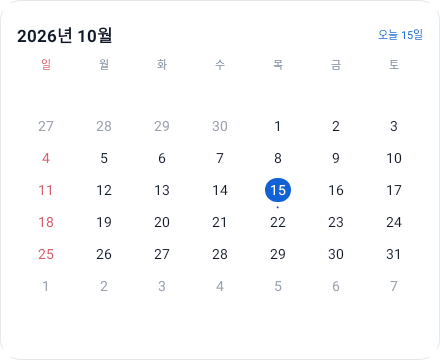
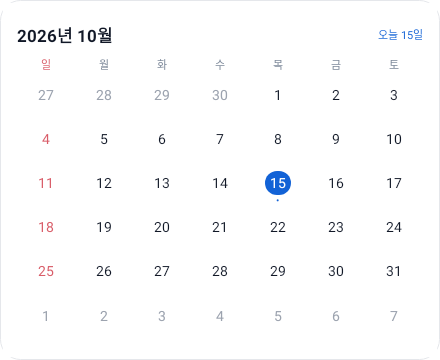
feat: simplify widget task form and support compact sizes

diff --git a/android/app/src/main/kotlin/com/example/ku_task_management/WidgetWorkspaceActivity.kt b/android/app/src/main/kotlin/com/example/ku_task_management/WidgetWorkspaceActivity.kt
@@ -52,6 +52,8 @@ class WidgetWorkspaceActivity : Activity() {
     private var pendingSave: (() -> Unit)? = null
     private var draft: (() -> Bundle)? = null
     private var initialDraft: Bundle? = null
+    private var editorAdvanced: LinearLayout? = null
+    private var editorMore: Button? = null
     private var focusTick: Runnable? = null
     private val handler = Handler(Looper.getMainLooper())
     private val worker = Executors.newSingleThreadExecutor()
@@ -89,6 +91,7 @@ class WidgetWorkspaceActivity : Activity() {
             "add", "edit" -> safely {
                 editor(id, savedInstanceState?.getBundle("draft"))
                 initialDraft = savedInstanceState?.getBundle("initial_draft") ?: initialDraft
+                setEditorAdvanced(savedInstanceState?.getBoolean("editor_advanced") == true)
             }
             else -> safely { list() }
         }
@@ -101,6 +104,7 @@ class WidgetWorkspaceActivity : Activity() {
         outState.putString("task_id", currentTaskId)
         draft?.let { outState.putBundle("draft", it()) }
         initialDraft?.let { outState.putBundle("initial_draft", it) }
+        outState.putBoolean("editor_advanced", editorAdvanced?.visibility == View.VISIBLE)
     }
 
     override fun onDestroy() {
@@ -123,9 +127,10 @@ class WidgetWorkspaceActivity : Activity() {
     }
 
     private fun sizeWindow() {
-        val fraction = if (screen == "edit") .88 else if (screen == "calendar") .84 else .76
+        val expandedEditor = screen == "edit" && editorAdvanced?.visibility == View.VISIBLE
+        val fraction = if (expandedEditor) .88 else if (screen == "calendar") .84 else .76
         val maximum = (resources.displayMetrics.heightPixels * fraction).toInt()
-            .coerceAtMost(dp(if (screen == "edit") 780 else 720))
+            .coerceAtMost(dp(if (expandedEditor) 780 else if (screen == "edit") 560 else 720))
         val height = if (screen == "list") dp(280 + listCount.coerceAtMost(8) * 60).coerceAtMost(maximum) else maximum
         window.setLayout((resources.displayMetrics.widthPixels * .94).toInt().coerceAtMost(dp(580)),
             height)
@@ -138,6 +143,7 @@ class WidgetWorkspaceActivity : Activity() {
         focusTick = null
         draft = null
         initialDraft = null
+        editorAdvanced = null; editorMore = null
         val root = LinearLayout(this).apply {
             orientation = LinearLayout.VERTICAL; setPadding(dp(18), dp(12), dp(18), dp(12))
             background = shape(Color.WHITE)
@@ -329,7 +335,6 @@ class WidgetWorkspaceActivity : Activity() {
             return
         }
         panel(if (id == null) "새 일정" else "일정 수정")
-        if (id == null) body.addView(label("개인 일정으로 저장됩니다.", 12))
         val title = input("제목", restored?.getString("title") ?: task?.title ?: "")
         title.setSingleLine(false); title.maxLines = 3
         body.addView(title)
@@ -347,22 +352,16 @@ class WidgetWorkspaceActivity : Activity() {
             ?: widgetOptions.tag.takeIf { it.isNotEmpty() }?.let { setOf(it) } ?: emptySet()).toMutableSet()
         var folder = if (restored?.containsKey("folder") == true) restored.getString("folder")
             else task?.folders?.firstOrNull() ?: if (id == null) widgetOptions.folder.takeIf { it.isNotEmpty() } else null
-        val dueButton = button(WidgetWorkspaceRenderer.dueLabel(due)) {}
+        var reminderControl: Button? = null
+        val dueButton = button("기한: ${WidgetWorkspaceRenderer.dueLabel(due)}") {}
         dueButton.setOnClickListener {
             if (task?.academic == true) toast("학업 마감은 원본을 유지합니다. 알림 시각을 변경할 수 있습니다.")
-            else pickDate(due) { due = it; dueButton.text = WidgetWorkspaceRenderer.dueLabel(due) }
-        }
-        body.addView(dueButton)
-        if (task?.academic != true) body.addView(button("마감 없음") { due = null; dueButton.text = "마감 없음" })
-        if (task?.academic == true) body.addView(label("${task.course}\n학업 마감은 원본을 유지합니다.", 12))
-        val priorityButton = button("우선순위: ${priorityLabel(priority)}") {}
-        priorityButton.setOnClickListener {
-            choose("우선순위", listOf("없음", "높음", "보통", "낮음")) { index ->
-                priority = listOf(null, "high", "medium", "low")[index]
-                priorityButton.text = "우선순위: ${priorityLabel(priority)}"
+            else pickDate(due) {
+                due = it; dueButton.text = "기한: ${WidgetWorkspaceRenderer.dueLabel(due)}"
+                if (due == null) { reminder = null; reminderControl?.text = reminderLabel(null) }
             }
         }
-        body.addView(priorityButton)
+        body.addView(dueButton)
         val memo = input("메모", restored?.getString("memo") ?: task?.memo ?: "").apply { minLines = 2; maxLines = 5 }
         body.addView(memo)
         val tagButton = button("태그 선택 (${selectedTags.size})") {}
@@ -378,6 +377,23 @@ class WidgetWorkspaceActivity : Activity() {
                 }.show()
         }
         body.addView(tagButton)
+        // Keep the four everyday fields visible; folding never recreates the draft.
+        val form = body
+        val advanced = LinearLayout(this).apply { orientation = LinearLayout.VERTICAL; visibility = View.GONE }
+        editorAdvanced = advanced
+        editorMore = button("더 보기 ▾") { setEditorAdvanced(advanced.visibility != View.VISIBLE) }
+        form.addView(editorMore)
+        form.addView(advanced)
+        body = advanced
+        if (task?.academic == true) body.addView(label("${task.course}\n학업 마감은 원본을 유지합니다.", 12))
+        val priorityButton = button("우선순위: ${priorityLabel(priority)}") {}
+        priorityButton.setOnClickListener {
+            choose("우선순위", listOf("없음", "높음", "보통", "낮음")) { index ->
+                priority = listOf(null, "high", "medium", "low")[index]
+                priorityButton.text = "우선순위: ${priorityLabel(priority)}"
+            }
+        }
+        body.addView(priorityButton)
         var folders = store.metadata("folders")
         val folderButton = button("폴더: ${folders.firstOrNull { it.first == folder }?.second ?: "없음"}") {}
         folderButton.setOnClickListener {
@@ -401,6 +417,7 @@ class WidgetWorkspaceActivity : Activity() {
         } }, weight())
         body.addView(metadataActions)
         val reminderButton = button(reminderLabel(reminder)) {}
+        reminderControl = reminderButton
         reminderButton.setOnClickListener {
             choose("마감 알림", listOf("끄기", "마감 시각", "10분 전", "30분 전", "1시간 전", "1일 전")) { index ->
                 reminder = listOf(null, 0, 10, 30, 60, 1440)[index]
@@ -432,7 +449,7 @@ class WidgetWorkspaceActivity : Activity() {
                 fun postponeDraft(days: Long) {
                     if (due == null) { toast("먼저 마감일을 지정해주세요."); return }
                     due = WidgetTaskPolicy.postponedDue(task.copy(due = due), days)
-                    dueButton.text = WidgetWorkspaceRenderer.dueLabel(due)
+                    dueButton.text = "기한: ${WidgetWorkspaceRenderer.dueLabel(due)}"
                 }
                 postpone.addView(button("하루 미루기") { postponeDraft(1) }, weight())
                 postpone.addView(button("일주일 미루기") { postponeDraft(7) }, weight())
@@ -474,6 +491,7 @@ class WidgetWorkspaceActivity : Activity() {
                     }.show()
             })
         }
+        body = form
         draft = {
             Bundle().apply {
                 putString("title", title.text.toString()); putString("memo", memo.text.toString())
@@ -494,6 +512,13 @@ class WidgetWorkspaceActivity : Activity() {
                 requestNotificationPermission()
             } else save()
         })
+    }
+
+    private fun setEditorAdvanced(expanded: Boolean) {
+        editorAdvanced?.visibility = if (expanded) View.VISIBLE else View.GONE
+        editorMore?.text = if (expanded) "접기 ▴" else "더 보기 ▾"
+        editorMore?.contentDescription = if (expanded) "추가 일정 옵션 접기" else "추가 일정 옵션 펼치기"
+        sizeWindow()
     }
 
     private fun subTasks(taskId: String) {
@@ -601,12 +626,14 @@ class WidgetWorkspaceActivity : Activity() {
         body.addView(button("일정으로 돌아가기") { safely { list() } })
     }
 
-    private fun pickDate(initial: Long?, selected: (Long) -> Unit) {
+    private fun pickDate(initial: Long?, selected: (Long?) -> Unit) {
         val date = initial?.let { Instant.ofEpochSecond(it).atZone(ZoneId.systemDefault()) } ?: java.time.ZonedDateTime.now()
         DatePickerDialog(this, { _, year, month, day ->
             TimePickerDialog(this, { _, hour, minute -> selected(LocalDate.of(year, month + 1, day)
                 .atTime(hour, minute).atZone(ZoneId.systemDefault()).toEpochSecond()) }, date.hour, date.minute, true).show()
-        }, date.year, date.monthValue - 1, date.dayOfMonth).show()
+        }, date.year, date.monthValue - 1, date.dayOfMonth).apply {
+            setButton(AlertDialog.BUTTON_NEUTRAL, "기한 없음") { _, _ -> selected(null) }
+        }.show()
     }
     private fun choose(title: String, values: List<String>, selected: (Int) -> Unit) {
         AlertDialog.Builder(this).setTitle(title).setItems(values.toTypedArray()) { _, which -> selected(which) }.setNegativeButton("취소", null).show()

diff --git a/android/app/src/test/kotlin/com/example/ku_task_management/WidgetTaskStoreTest.kt b/android/app/src/test/kotlin/com/example/ku_task_management/WidgetTaskStoreTest.kt
@@ -167,7 +167,7 @@ class WidgetTaskStoreTest {
         val activity = controller.get()
         val views = descendants(activity.findViewById(android.R.id.content))
         views.filterIsInstance<EditText>().first { it.hint == "제목" }.setText("위젯에서 생성")
-        preview(activity.findViewById(android.R.id.content), "expanded-add", 480, 840)
+        preview(activity.findViewById(android.R.id.content), "expanded-add", 480, 540)
         views.filterIsInstance<Button>().first { it.text == "저장" }.performClick()
         for (attempt in 0 until 1000) {
             shadowOf(Looper.getMainLooper()).idle()
@@ -347,6 +347,111 @@ class WidgetTaskStoreTest {
             Thread.sleep(10)
         }
         assertTrue("Widget work did not complete", condition())
+    }
+
+    @Test @GraphicsMode(GraphicsMode.Mode.NATIVE)
+    fun editorShowsOnlyEverydayFieldsAndRetainsOptionsWhenFolded() {
+        val controller = Robolectric.buildActivity(WidgetWorkspaceActivity::class.java,
+            Intent(context, WidgetWorkspaceActivity::class.java).putExtra("action", "add")).setup()
+        val activity = controller.get()
+        fun controls() = descendants(activity.findViewById(android.R.id.content))
+        fun button(text: String) = controls().filterIsInstance<Button>().single { it.text.toString() == text }
+        val visible = controls().filterIsInstance<Button>().filter { it.isShown }.map { it.text.toString() }
+        assertEquals(5, visible.size)
+        assertTrue(visible.containsAll(listOf("닫기", "태그 선택 (0)", "더 보기 ▾", "저장")))
+        assertTrue(visible.any { it.startsWith("기한:") })
+        controls().filterIsInstance<EditText>().single { it.hint == "제목" }.setText("간단히 추가")
+        controls().filterIsInstance<EditText>().single { it.hint == "메모" }.setText("유지할 메모")
+        assertFalse(button("우선순위: 없음").isShown)
+        button("더 보기 ▾").performClick()
+        assertTrue(button("우선순위: 없음").isShown)
+        button("우선순위: 없음").performClick()
+        org.robolectric.shadows.ShadowAlertDialog.getLatestAlertDialog().let { dialog ->
+            dialog.listView.performItemClick(null, 1, 1)
+        }
+        shadowOf(Looper.getMainLooper()).idle()
+        assertTrue(button("우선순위: 높음").isShown)
+        preview(activity.findViewById(android.R.id.content), "expanded-add-more", 480, 780)
+        button("접기 ▴").performClick()
+        assertFalse(button("우선순위: 높음").isShown)
+        button("저장").performClick()
+        awaitCondition { activity.isFinishing }
+        val task = store.tasks().single()
+        assertEquals("간단히 추가", task.title)
+        assertEquals("유지할 메모", task.memo)
+        assertEquals("high", task.priority)
+        assertNull(shadowOf(activity).nextStartedActivity)
+        controller.pause().stop().destroy()
+    }
+
+    @Test @GraphicsMode(GraphicsMode.Mode.NATIVE)
+    fun noDeadlineCanBeChosenWithoutOpeningMoreOrDisablingAnInvisibleReminder() {
+        SQLiteDatabase.openDatabase(file.path, null, SQLiteDatabase.OPEN_READWRITE).use {
+            it.execSQL("UPDATE app_settings SET value='true' WHERE key='defaultNotificationEnabled'")
+        }
+        val controller = Robolectric.buildActivity(WidgetWorkspaceActivity::class.java,
+            Intent(context, WidgetWorkspaceActivity::class.java).putExtra("action", "add")).setup()
+        val activity = controller.get()
+        val controls = descendants(activity.findViewById(android.R.id.content))
+        controls.filterIsInstance<EditText>().single { it.hint == "제목" }.setText("기한 없는 할 일")
+        controls.filterIsInstance<Button>().single { it.text.startsWith("기한:") }.performClick()
+        org.robolectric.shadows.ShadowAlertDialog.getLatestAlertDialog()
+            .getButton(android.app.AlertDialog.BUTTON_NEUTRAL).performClick()
+        shadowOf(Looper.getMainLooper()).idle()
+        controls.filterIsInstance<Button>().single { it.text == "저장" }.performClick()
+        awaitCondition { activity.isFinishing }
+        val task = store.tasks().single()
+        assertNull(task.due)
+        assertNull(store.reminder(task.id))
+        controller.pause().stop().destroy()
+    }
+
+    @Test @GraphicsMode(GraphicsMode.Mode.NATIVE)
+    fun listAdaptsFromSmallTileToWideCardWithoutClippingRows() {
+        val due = java.time.LocalDate.now().atTime(23, 59).atZone(java.time.ZoneId.systemDefault()).toEpochSecond()
+        repeat(15) { create("크기별 일정 ${it + 1}", due) }
+        val manager = android.appwidget.AppWidgetManager.getInstance(context)
+        val shadow = shadowOf(manager)
+        val id = shadow.createWidget(ScheduleWidgetProvider::class.java, R.layout.widget_workspace)
+        val counts = mutableListOf<Int>()
+        for ((width, height) in listOf(140 to 72, 220 to 180, 360 to 480)) {
+            manager.updateAppWidgetOptions(id, android.os.Bundle().apply {
+                putInt(android.appwidget.AppWidgetManager.OPTION_APPWIDGET_MIN_WIDTH, width)
+                putInt(android.appwidget.AppWidgetManager.OPTION_APPWIDGET_MIN_HEIGHT, height)
+            })
+            val widget = shadow.getViewFor(id)
+            preview(widget, "list-${width}x$height", width, height)
+            val rows = widget.findViewById<android.widget.LinearLayout>(R.id.workspace_rows)
+            counts.add(rows.childCount)
+            assertTrue(rows.childCount > 0)
+            assertTrue("Row clipped at ${width}x$height", rows.getChildAt(rows.childCount - 1).bottom <= rows.height)
+            widget.findViewById<View>(R.id.workspace_surface).performClick()
+            assertEquals("list", shadowOf(context).nextStartedActivity.getStringExtra("action"))
+        }
+        assertTrue(counts[0] < counts[1]); assertTrue(counts[1] < counts[2])
+    }
+
+    @Test @GraphicsMode(GraphicsMode.Mode.NATIVE)
+    fun smallCalendarStillShowsAllSixWeeksAndFortyTwoDates() {
+        val manager = android.appwidget.AppWidgetManager.getInstance(context)
+        val shadow = shadowOf(manager)
+        val id = shadow.createWidget(CalendarWidgetProvider::class.java, R.layout.widget_calendar)
+        manager.updateAppWidgetOptions(id, android.os.Bundle().apply {
+            putInt(android.appwidget.AppWidgetManager.OPTION_APPWIDGET_MIN_WIDTH, 180)
+            putInt(android.appwidget.AppWidgetManager.OPTION_APPWIDGET_MIN_HEIGHT, 240)
+        })
+        val widget = shadow.getViewFor(id)
+        preview(widget, "calendar-small", 180, 240)
+        val weeks = widget.findViewById<android.widget.LinearLayout>(R.id.calendar_weeks)
+        assertEquals(6, weeks.childCount)
+        assertEquals(42, descendants(weeks).count { it.id == R.id.calendar_day_cell })
+        assertTrue(weeks.getChildAt(5).bottom <= weeks.height)
+        for (cell in descendants(weeks).filter { it.id == R.id.calendar_day_cell }) {
+            val number = cell.findViewById<View>(R.id.calendar_day_number)
+            val dot = cell.findViewById<View>(R.id.calendar_day_dot)
+            assertTrue(number.top >= 0)
+            assertTrue(dot.bottom <= cell.height)
+        }
     }
 
     private fun preview(view: View, name: String, width: Int, height: Int) {

diff --git a/android/app/src/main/kotlin/com/example/ku_task_management/WidgetWorkspaceRenderer.kt b/android/app/src/main/kotlin/com/example/ku_task_management/WidgetWorkspaceRenderer.kt
@@ -28,7 +28,12 @@ object WidgetWorkspaceRenderer {
             WidgetCalendarRenderer.render(context, manager, widgetId)
             return
         }
-        val views = RemoteViews(context.packageName, R.layout.widget_workspace)
+        val dimensions = manager.getAppWidgetOptions(widgetId)
+        val height = dimensions.getInt(AppWidgetManager.OPTION_APPWIDGET_MIN_HEIGHT, if (kind == "weekly") 203 else 180)
+        val width = dimensions.getInt(AppWidgetManager.OPTION_APPWIDGET_MIN_WIDTH, if (kind == "weekly") 276 else 180)
+        val compact = height < 210 || width < 220
+        val singleLine = height < 140
+        val views = RemoteViews(context.packageName, if (compact) R.layout.widget_workspace_compact else R.layout.widget_workspace)
         val store = WidgetTaskStore(context)
         val options = store.options(widgetId, kind)
         val foreground = Color.parseColor(if (options.dark) "#F3F4F6" else "#111827")
@@ -60,17 +65,22 @@ object WidgetWorkspaceRenderer {
             val allTasks = store.tasks()
             val urgentDays = store.appSetting("urgentDueDays", "3").toIntOrNull() ?: 3
             val tasks = WidgetTaskPolicy.select(allTasks, options, now, pins, urgentDays)
-            val height = manager.getAppWidgetOptions(widgetId).getInt(AppWidgetManager.OPTION_APPWIDGET_MIN_HEIGHT,
-                if (kind == "weekly") 340 else 280)
             val largeRows = options.largeText || context.resources.configuration.fontScale > 1.3f
-            val count = ((height - 110) / if (largeRows) 72 else 52).coerceIn(1, 12)
+            val rowLayout = when {
+                singleLine -> R.layout.widget_workspace_row_single
+                largeRows -> R.layout.widget_workspace_row_large
+                compact -> R.layout.widget_workspace_row_compact
+                else -> R.layout.widget_workspace_row
+            }
+            val rowHeight = when { singleLine -> 26; largeRows -> 72; compact -> 40; else -> 52 }
+            val count = ((height - if (compact) 46 else 110) / rowHeight).coerceIn(1, 12)
             for (task in tasks.take(count)) {
-                val row = RemoteViews(context.packageName, if (largeRows) R.layout.widget_workspace_row_large else R.layout.widget_workspace_row)
+                val row = RemoteViews(context.packageName, rowLayout)
                 row.setTextViewText(R.id.workspace_row_title,
                     (if (task.id in pins) "★ " else "") + task.title)
                 row.setTextColor(R.id.workspace_row_title, if (task.completed) muted else foreground)
                 row.setTextViewTextSize(R.id.workspace_row_title, TypedValue.COMPLEX_UNIT_SP,
-                    if (options.largeText) 16f else 14f)
+                    if (singleLine) 12f else if (options.largeText) 16f else if (compact) 13f else 14f)
                 row.setInt(R.id.workspace_row_title, "setPaintFlags", Paint.ANTI_ALIAS_FLAG or
                     if (task.completed) Paint.STRIKE_THRU_TEXT_FLAG else 0)
                 row.setImageViewResource(R.id.workspace_row_check,

diff --git a/android/app/src/main/kotlin/com/example/ku_task_management/WidgetCalendarRenderer.kt b/android/app/src/main/kotlin/com/example/ku_task_management/WidgetCalendarRenderer.kt
@@ -40,15 +40,15 @@ object WidgetCalendarRenderer {
             }
             val height = manager.getAppWidgetOptions(widgetId).getInt(AppWidgetManager.OPTION_APPWIDGET_MIN_HEIGHT, 320)
             // Six rows also cover months beginning on Saturday without clipping the final week.
-            val tall = height >= 350
+            val compact = height < 290
             val first = month.atDay(1)
             val start = first.minusDays((first.dayOfWeek.value % 7).toLong())
             for (week in 0 until 6) {
-                val row = RemoteViews(context.packageName, if (tall) R.layout.widget_calendar_week_large else R.layout.widget_calendar_week)
+                val row = RemoteViews(context.packageName, R.layout.widget_calendar_week)
                 for (day in 0 until 7) {
                     val date = start.plusDays((week * 7 + day).toLong())
                     val matches = byDate[date].orEmpty()
-                    val cell = RemoteViews(context.packageName, R.layout.widget_calendar_day)
+                    val cell = RemoteViews(context.packageName, if (compact) R.layout.widget_calendar_day_compact else R.layout.widget_calendar_day)
                     cell.setTextViewText(R.id.calendar_day_number, date.dayOfMonth.toString())
                     val currentMonth = YearMonth.from(date) == month
                     cell.setTextColor(R.id.calendar_day_number, when {
@@ -58,7 +58,7 @@ object WidgetCalendarRenderer {
                         else -> foreground
                     })
                     cell.setTextViewTextSize(R.id.calendar_day_number, android.util.TypedValue.COMPLEX_UNIT_SP,
-                        if (options.largeText) 16f else 14f)
+                        if (compact) 12f else if (options.largeText) 16f else 14f)
                     cell.setInt(R.id.calendar_day_number, "setBackgroundResource",
                         if (date == today) R.drawable.widget_calendar_today else android.R.color.transparent)
                     cell.setViewVisibility(R.id.calendar_day_dot, if (matches.isEmpty()) View.INVISIBLE else View.VISIBLE)
